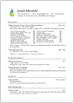
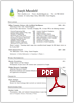
Build v0.3.0

Changed region(s): [[0.4865, 0.6408, 0.9189, 0.9612]]

diff --git a/index.html b/index.html
@@ -38,8 +38,8 @@
 			<div class="page">
 				<div class="row">
 					<div class="column-2">
-						<p class="secondary">Joseph is a software developer and studies computer science at the <a href="#">University of York</a>.</p>
-						<p class="secondary">His interests include C++ programming, game development, web development, Android development, graphics, interface design, and system engineering.</p>
+						<p class="secondary">I'm a software developer studying computer science at the <a href="#">University of York</a>.</p>
+						<p class="secondary">My interests include C++ programming, game development, web development, Android development, graphics, interface design, and system engineering.</p>
 					</div>
 					<div class="column-1 cv">
 						<a href="cv.pdf">
